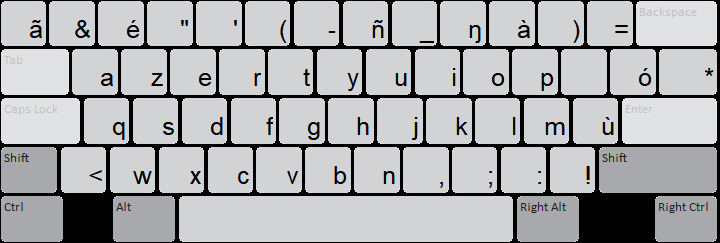
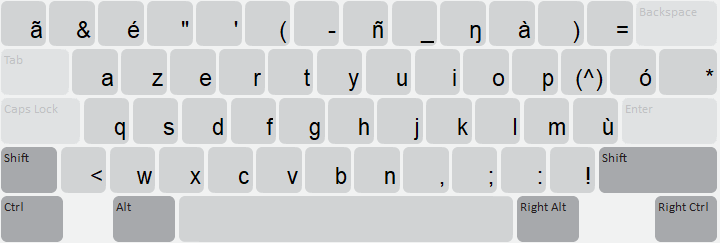
[basic_doc] Update Wolof Basic documentation on deadkeys

Changed region(s): [[0.0, 0.0, 1.0, 1.0]]

diff --git a/release/basic/basic_kbdwol/source/welcome/welcome.htm b/release/basic/basic_kbdwol/source/welcome/welcome.htm
@@ -14,8 +14,13 @@
 <h1>Start Using Wolof Basic</h1>
 
 <p>
-    Wolof Basic 1.0 generated from template.
+    Keyboard for the Wolof language of Senegal. This keyboard is based on the Windows 10 keyboard layout. 
 </p>
+
+<p>This keyboard makes use of deadkeys. Typing the deadkey before the base character will output the combined character. For example:</p>
+<p>^a will produce ä (available on aAeEiIoOuU). (The ^ is on the US "[" key.)</p>
+<p>¨a will produce ä (available on aAeEiIoOuUy). (The ¨ is on the US "{" key.)</p>
+<p>~o will produce õ (available on aAnNoO).(The ~ is on the US "Right Alt 2" key.)</p>
 
 
   <h2>Keyboard layout</h2>
@@ -27,7 +32,7 @@
 	<p><a href="LayoutU_RA.png"><img class="keyboard" src="LayoutU_RA.png" alt="Right ALT (unshifted) state" /></a></p>
 
 
-<p>(c) 2018 SIL International</p>
+<p>(c) SIL International</p>
 
 </body>
 </html>

diff --git a/release/basic/basic_kbdwol/source/readme.htm b/release/basic/basic_kbdwol/source/readme.htm
@@ -14,10 +14,10 @@
 <h1>Wolof Basic</h1>
 
 <p>
-    Wolof Basic 1.0 generated from template.
+    Keyboard for the Wolof language of Senegal. This keyboard is based on the Windows 10 keyboard layout.
 </p>
 
-<p>(c) 2018 SIL International</p>
+<p>(c) SIL International</p>
 
 </body>
 </html>

diff --git a/release/basic/basic_kbdwol/README.md b/release/basic/basic_kbdwol/README.md
@@ -1,17 +1,15 @@
 Wolof Basic keyboard
 ==============
 
-(c) 2018 SIL International
-
-Version 1.0
+(c) SIL International
 
 Description
 -----------
-
-Wolof Basic generated from template
+Keyboard for the Wolof language of Senegal. This keyboard is based on the Windows 10 keyboard layout.
 
 Links
 -----
+https://keyman.com/keyboards/basic_kbdwol
 
 Supported Platforms
 -------------------

diff --git a/release/basic/basic_kbdwol/LICENSE.md b/release/basic/basic_kbdwol/LICENSE.md
@@ -1,6 +1,6 @@
 The MIT License (MIT)
 
-(c) 2018 SIL International
+(c) 2018-2021 SIL International
 
 Permission is hereby granted, free of charge, to any person obtaining a copy
 of this software and associated documentation files (the "Software"), to deal

diff --git a/release/basic/basic_kbdwol/HISTORY.md b/release/basic/basic_kbdwol/HISTORY.md
@@ -1,6 +1,10 @@
 Wolof Basic Change History
 ====================
 
+1.0.1 (2021-08-26)
+----------------
+* Document deadkeys 
+
 1.0 (2018-11-06)
 ----------------
 * Keyman keyboard generated by ImportKeyboard from Windows 10 
